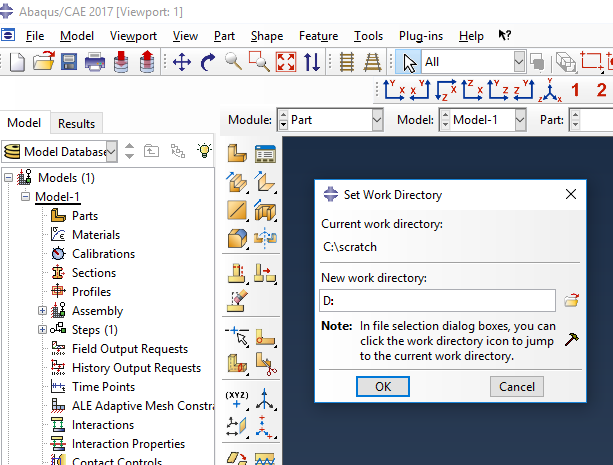
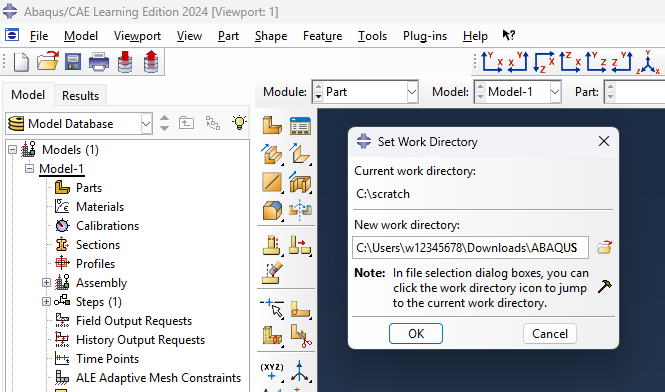
updated Intro tutorials to correct working directory. Minor fixes to week01

diff --git a/abaqus/General/IntroToABAQUS/IntroToABAQUS.md b/abaqus/General/IntroToABAQUS/IntroToABAQUS.md
@@ -1,7 +1,7 @@
 <!--
 author: Matthew Blacklock
 email: matthew.blacklock@northumbria.ac.uk
-version: 1.0.0
+version: 1.0.1
 language: en
 mode: Presentation
 icon: ../../../logo.png
@@ -31,6 +31,8 @@ Solving a problem using FEA requires 3 main steps:
 
 ![The three stages of FEA: pre-processing, solving and post-processing](images/General_IntroToABAQUS_img01_FEAThreeSteps.png)<!-- width="60%" -->
 
+    {{1}}
+***********************************
 Typically the steps to create an ABAQUS model are as follows:
 
 - Create Part
@@ -43,8 +45,9 @@ Typically the steps to create an ABAQUS model are as follows:
 - Assign Boundary Conditions and Loads
 - Mesh Part(s)/Assembly
 - Create Job and Run
+***********************************
 
-    {{1}}
+    {{2}}
 ***********************************
 Some of these steps will be familiar from your use of CAD software. Creating and assembling parts can in fact be done through CAD software, such as Solidworks and Catia, and imported into ABAQUS for analysis (feature not available in student edition).
 
@@ -57,6 +60,7 @@ There are three ways to create parts:
 Defining a part using an input file is the most simple option, but requires knowledge of nodal coordinates and element connectivity (this will be explained later). Drawing the parts within ABAQUS is suitable for simple models, but specialist CAD software is needed for more complex structures.
 
 This module will introduce all three methods, but to start with, we will look at input files.
+***********************************
 
 ## 2. ABAQUS input files
 
@@ -84,7 +88,7 @@ The input file for this problem is shown below. Constructing input files and usa
 
 ![Original annotated input file](images/General_IntroToABAQUS_img03_InputFile.png)<!-- width="60%" -->
 
-This input file can be downloaded here: [intro.inp](files/intro.inp)
+This input file can be downloaded here: [intro.inp](files/intro.inp) (right click and *Save link as*)
 
 <br>
 

diff --git a/abaqus/General/OpeningABAQUS/OpeningABAQUS.md b/abaqus/General/OpeningABAQUS/OpeningABAQUS.md
@@ -1,7 +1,7 @@
 <!--
 author: Matthew Blacklock
 email: matthew.blacklock@northumbria.ac.uk
-version: 1.0.0
+version: 1.0.1
 language: en
 mode: Presentation
 icon: ../../../logo.png
@@ -77,7 +77,9 @@ Do not assume this location is writable or suitable on your machine. Choose a fo
 
 **Choose a writable folder**
 
-You may choose a local folder on your current machine, for example, `D:\ABAQUS`. However, this will not be accessible once you log out. Alternatively, create a folder in your OneDrive and set the work directory there.
+You may choose a local folder on your current machine, for example, `c:\Users\w12345678\Downloads\ABAQUS` (where w12345678 is your student number). 
+
+Note: this will not be accessible once you log out. You will need to move any files you wish to keep to your Onedrive. Unfortunately, at present, ABAQUS does not work with directly with a OneDrive folder as the working directory.
 
 Type or browse to the chosen folder and click **OK**.
 
@@ -99,7 +101,7 @@ Before moving on, check that you can find the folder and the `.inp` file in File
 
 ## Keep the files you need
 
-If you are using `D:` as your working directory, this is a temporary local drive that belongs to the PC you are using. It is regularly cleared, and you will not be able to access it from another PC.
+If you are using `c:\Users\w12345678\Downloads\ABAQUS` as your working directory, this is a temporary local drive that belongs to the PC you are using. It is regularly cleared, and you will not be able to access it from another PC.
 
 After a job finishes, copy the files you need to your usual student storage before logging off. Keep the `.inp` model definition and the `.odb` results if you want to inspect them later. Keep a `.cae` file as well when you build a model in the graphical interface.
 

diff --git a/week01/week01.md b/week01/week01.md
@@ -1,7 +1,7 @@
 <!--
 author:   Matthew Blacklock
 email:    matthew.blacklock@northumbria.ac.uk
-version:  1.0.0
+version:  1.0.1
 language: en
 mode:     Presentation
 icon: ../logo.png
@@ -783,7 +783,7 @@ There are two tasks to complete:
 
 <br>
 
-1. **Analytical**: Predict the axial bar's response to a given force. Complete the SI Units and Consistent Units tables.
+1. **Analytical**: Predict the axial bar's response to a given force.
 
 <br>
 
